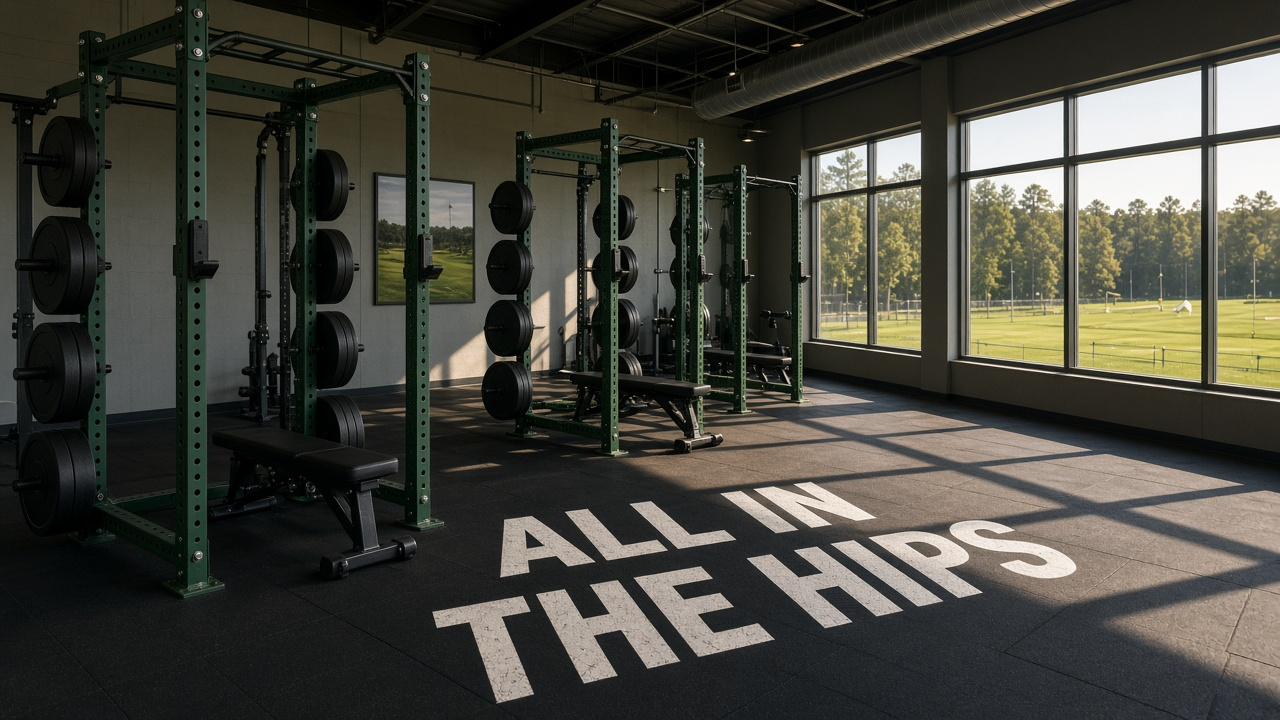
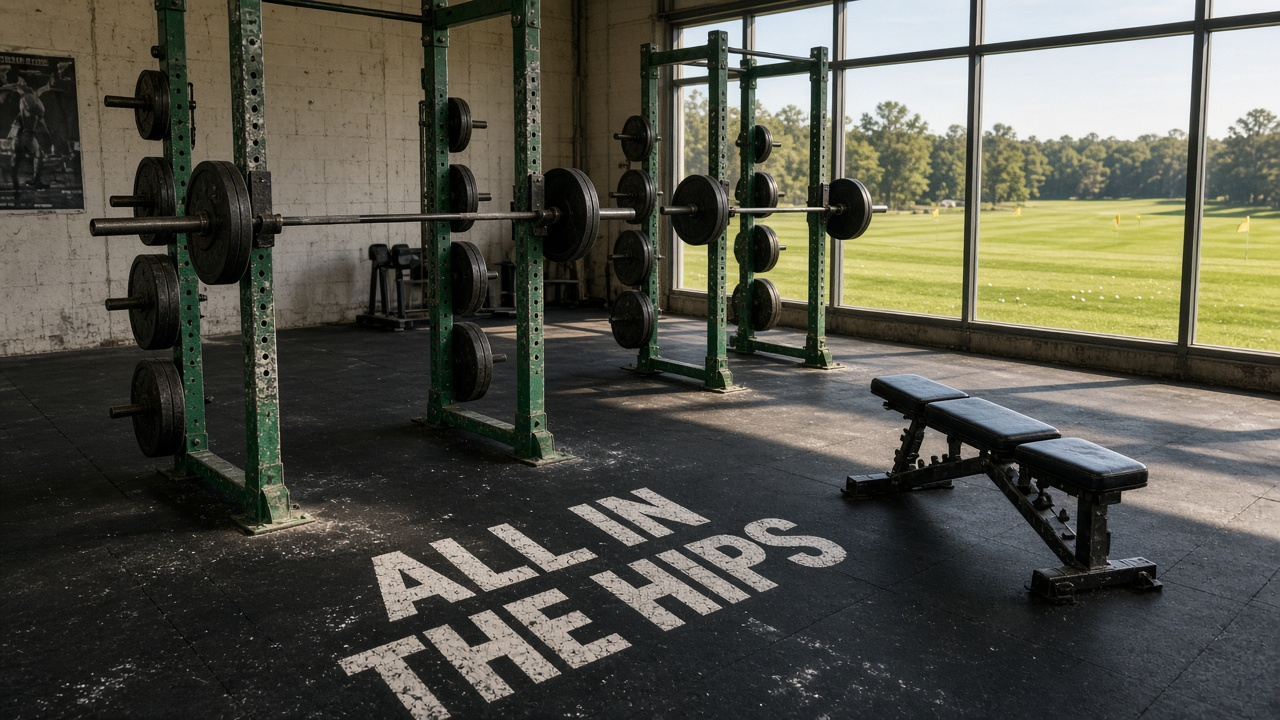
Replace the grounds photos and rewrite the captions.
The old set looked like a showroom render. The new photos are a lived-in clubhouse, a working floor, and a night range, and the captions talk like a person who has been there.

diff --git a/index.php b/index.php
@@ -131,31 +131,31 @@ include __DIR__ . '/config/header.php';
   <div class="wrap">
     <p class="label center">Waterbury, Connecticut</p>
     <h2 class="center">The 9th Green at 9:00 PM.</h2>
-    <p class="center muted">The gym sits on the range. Racks inside, a turf lane beside them, the green out the window. Chubbs is here Monday through Friday, 7am to 3pm. He is not here around the clock. On weekends, hot dog and hamburger carts travel the green.</p>
+    <p class="center muted">You finish a set and the range is right there, through the glass. That is the building. Chubbs is on the floor Monday through Friday, from 7 until 3, and then he is gone until morning. Weekends, the carts take the green. Hot dogs and hamburgers. No coach.</p>
     <div class="mosaic">
       <figure class="wide">
-        <?= pic($base, 'facility-exterior.jpg', 'The 9th Green clubhouse at dusk, range lights on, autumn trees', 'rounded') ?>
-        <figcaption>The clubhouse, when the range lights come on.</figcaption>
+        <?= pic($base, 'facility-exterior.jpg', 'The 9th Green clubhouse at dusk, sign out front, range lights coming on', 'rounded') ?>
+        <figcaption>Dusk. The sign is already lit, and somebody is still out on the range.</figcaption>
       </figure>
       <figure>
-        <?= pic($base, 'facility-cart.jpg', 'A hot dog and hamburger cart on the grass beside the driving range', 'rounded') ?>
-        <figcaption>Weekend carts. Hot dogs and hamburgers, moving around the green.</figcaption>
+        <?= pic($base, 'facility-cart.jpg', 'A cook at a hot dog and hamburger cart on the grass beside the range', 'rounded') ?>
+        <figcaption>The grill moves around the green all weekend. He does not.</figcaption>
       </figure>
       <figure class="wide">
-        <?= pic($base, 'facility-floor.jpg', 'The weight room with ALL IN THE HIPS painted on the floor and the range outside', 'rounded') ?>
-        <figcaption>The floor. The range is right outside the glass.</figcaption>
+        <?= pic($base, 'facility-floor.jpg', 'A worn weight room with ALL IN THE HIPS on the floor and the range outside the windows', 'rounded') ?>
+        <figcaption>You can see the flags from the squat rack. He likes it that way. The hinge and the fairway are the same idea.</figcaption>
       </figure>
       <figure>
-        <?= pic($base, 'facility-racks.jpg', 'Three green squat racks, each bar loaded with one upright 45 a side, TAP IT IN on the wall', 'rounded') ?>
-        <figcaption>Racks loaded the way a real gym loads them.</figcaption>
+        <?= pic($base, 'facility-racks.jpg', 'Three green racks, each bar with one upright 45 a side, TAP IT IN on the wall', 'rounded') ?>
+        <figcaption>One 45 a side, number facing you. He will turn a plate around if you load it backwards.</figcaption>
       </figure>
       <figure>
-        <?= pic($base, 'facility-turf.jpg', 'Indoor turf lane with a putter and a hockey stick, TAP IT IN on the grass', 'rounded') ?>
-        <figcaption>The turf lane. Putter, hockey stick, and a short walk to the racks.</figcaption>
+        <?= pic($base, 'facility-turf.jpg', 'A worn indoor turf lane, a putter and a hockey stick on the bench, TAP IT IN on the turf', 'rounded') ?>
+        <figcaption>Ten yards of turf, a putter nobody put away, and the racks through the glass.</figcaption>
       </figure>
       <figure class="wide">
-        <?= pic($base, 'facility-range-night.jpg', 'The driving range at night under floodlights, yardage signs down the fairway', 'rounded') ?>
-        <figcaption>Nine o’clock. The bays are lit and the tree line is dark.</figcaption>
+        <?= pic($base, 'facility-range-night.jpg', 'The driving range at night, yardage signs at 50, 100, 150, and 200, clubhouse windows lit', 'rounded') ?>
+        <figcaption>Nine o’clock, the way the place got its name. The bays stay lit after he has gone home.</figcaption>
       </figure>
     </div>
     <p class="center more"><a class="link" href="gallery.php">More of the building, the lockers, and the green</a></p>
